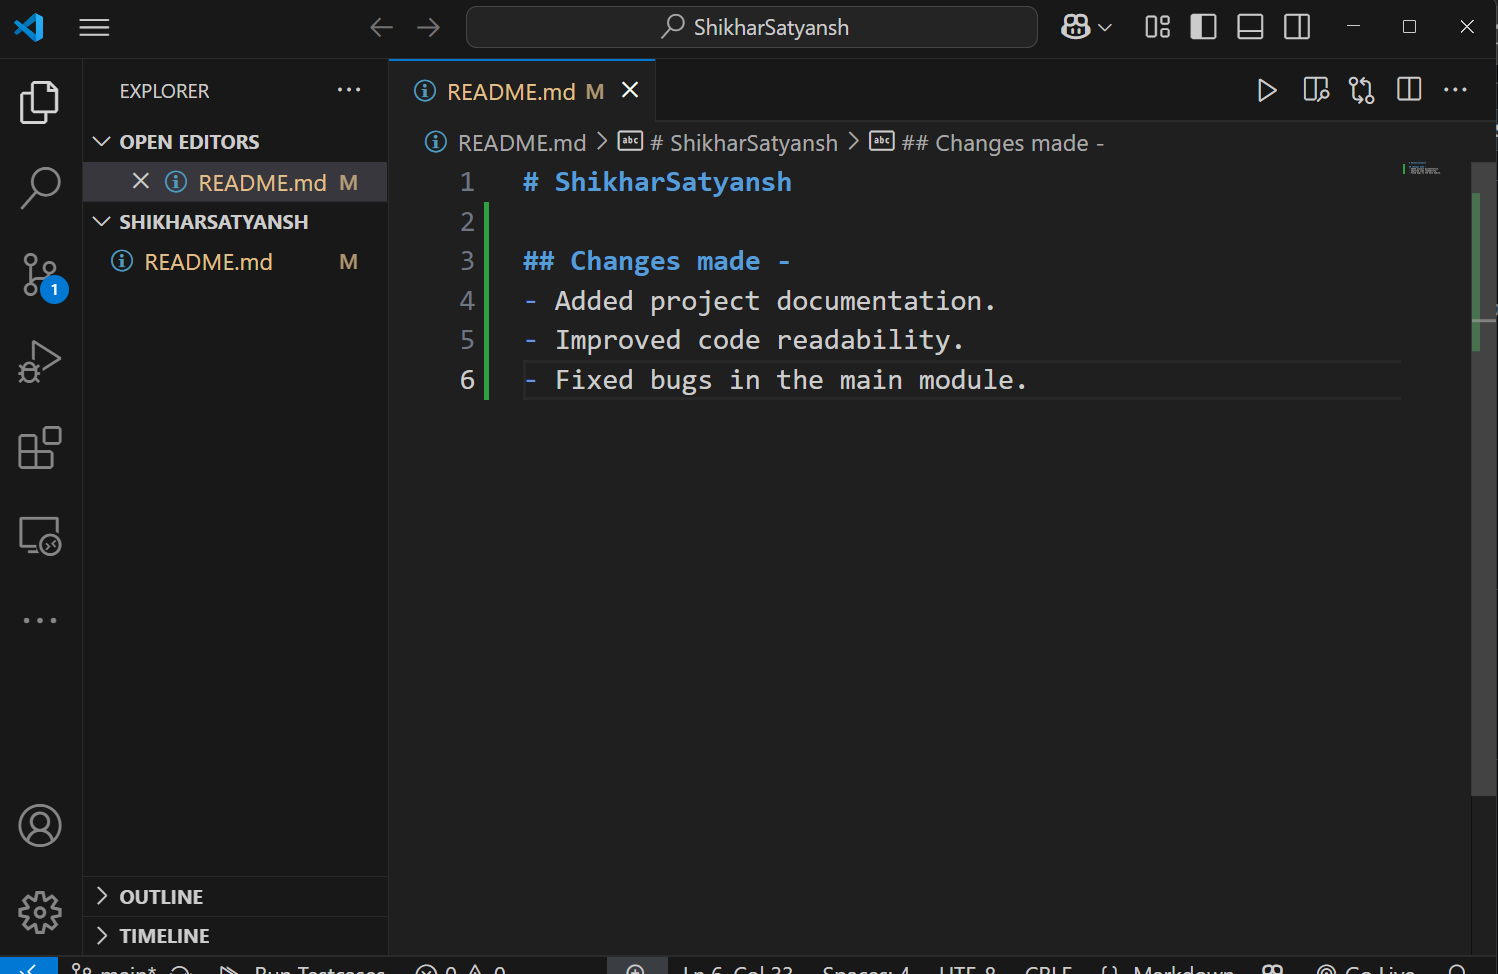
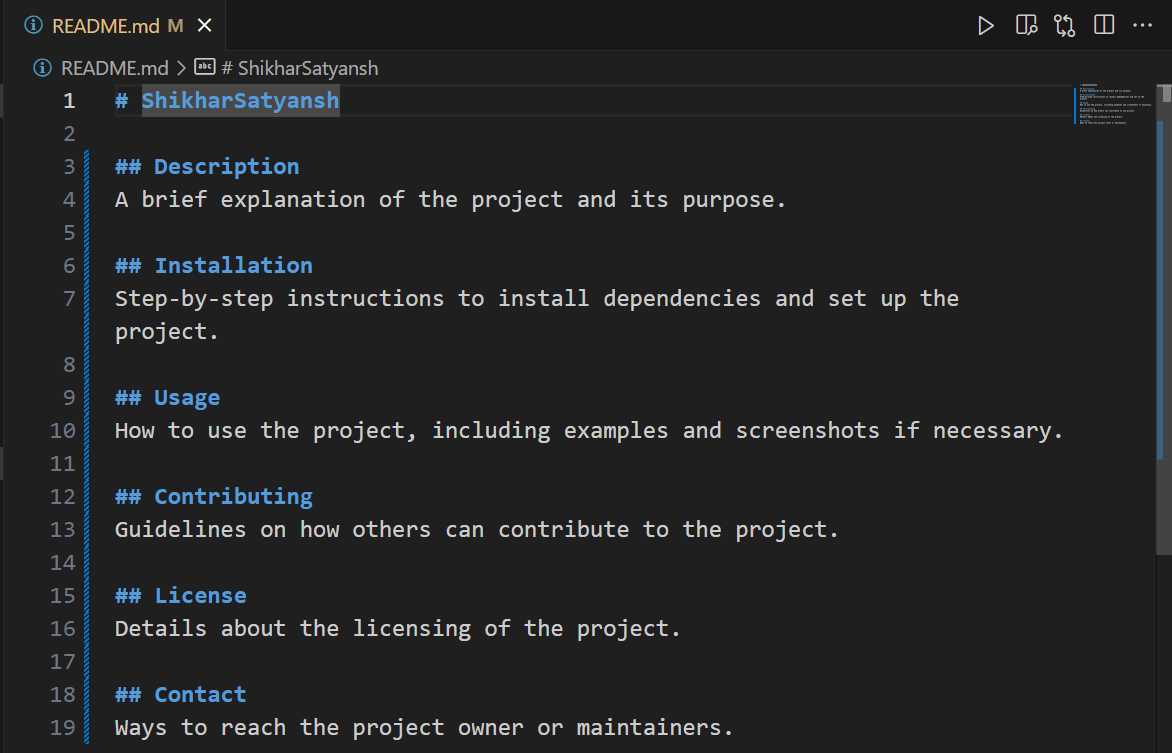
changed 7

diff --git a/README.md b/README.md
@@ -1,6 +1,19 @@
 # ShikharSatyansh
 
-## Changes made -
-- Added project documentation.
-- Improved code readability.
-- Fixed bugs in the main module.
+## Description
+A brief explanation of the project and its purpose.
+
+## Installation
+Step-by-step instructions to install dependencies and set up the project.
+
+## Usage
+How to use the project, including examples and screenshots if necessary.
+
+## Contributing
+Guidelines on how others can contribute to the project.
+
+## License
+Details about the licensing of the project.
+
+## Contact
+Ways to reach the project owner or maintainers.
